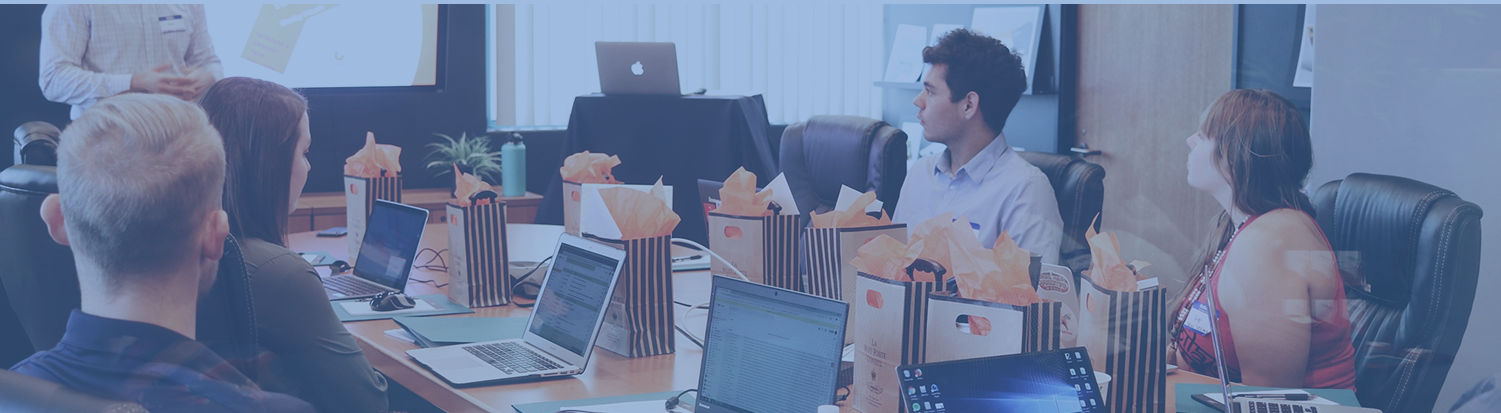
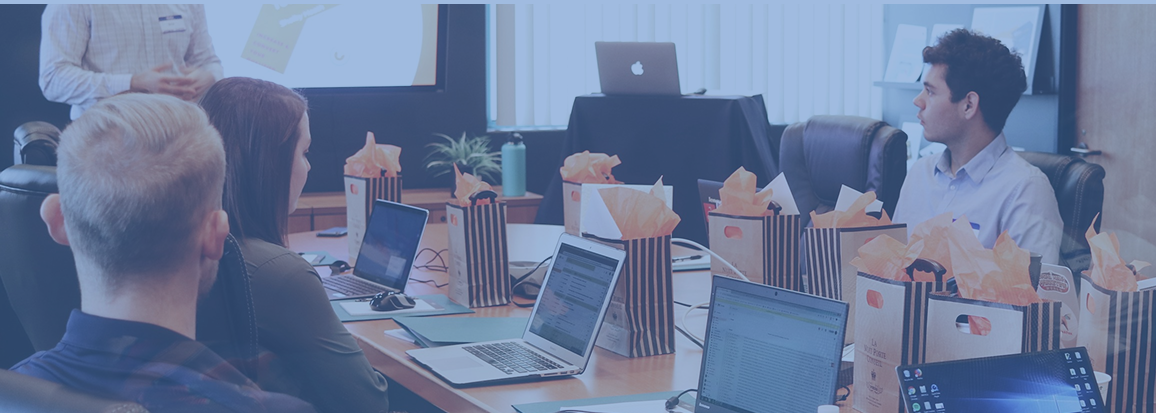
update corousel

diff --git a/components/Hero.jsx b/components/Hero.jsx
@@ -15,9 +15,9 @@ export default function Hero() {
   };
 
   const images = [
-    { src: "/carausel1.png", alt: "Professional team at PT. Souci Indoprima" },
-    { src: "/building.png", alt: "Building 1" },
-    { src: "/s1.jpg", alt: "Building 2" },
+    { src: "/b3.jpg", alt: "Professional team at PT. Souci Indoprima" },
+    { src: "/b1.png", alt: "Building 1" },
+    { src: "/b2.jpg", alt: "Building 2" },
   ];
 
   useEffect(() => {
